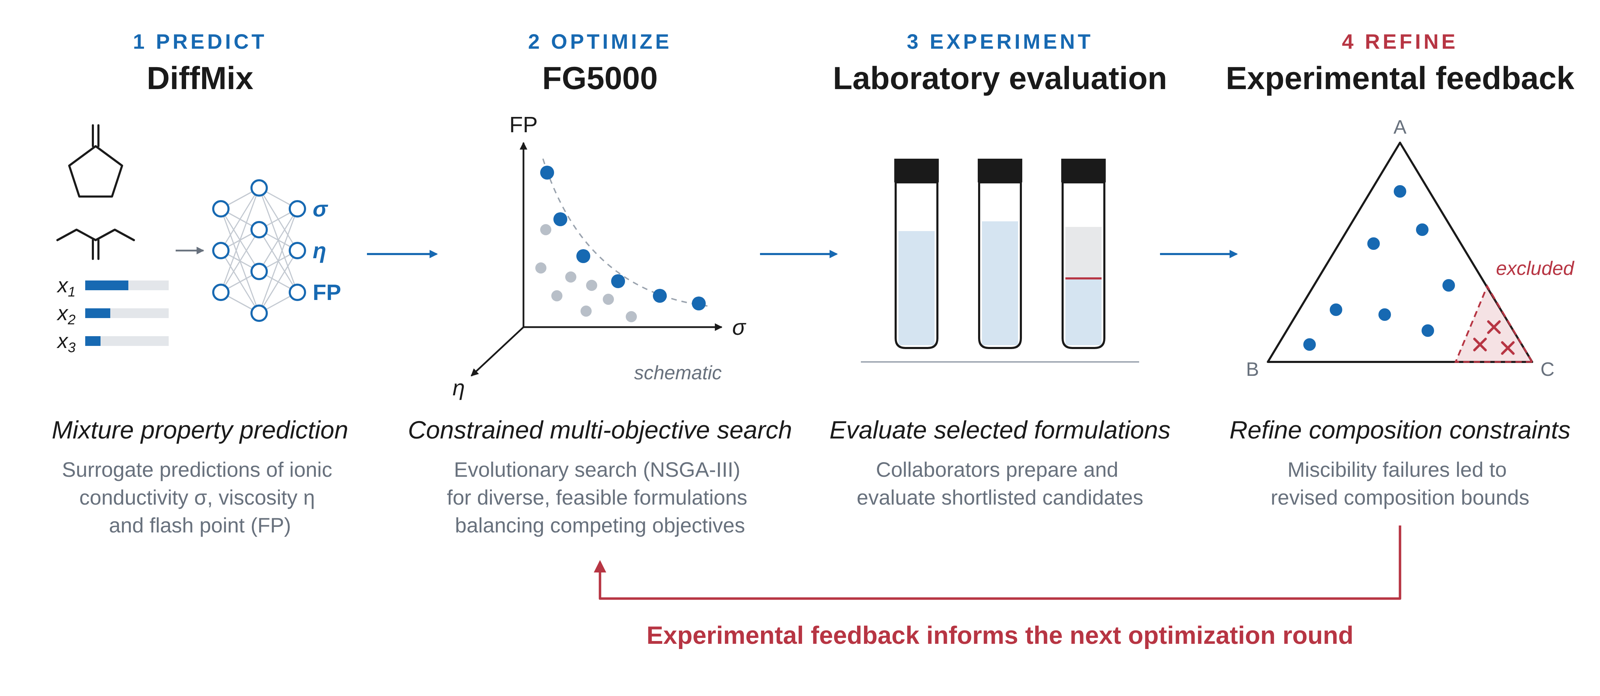
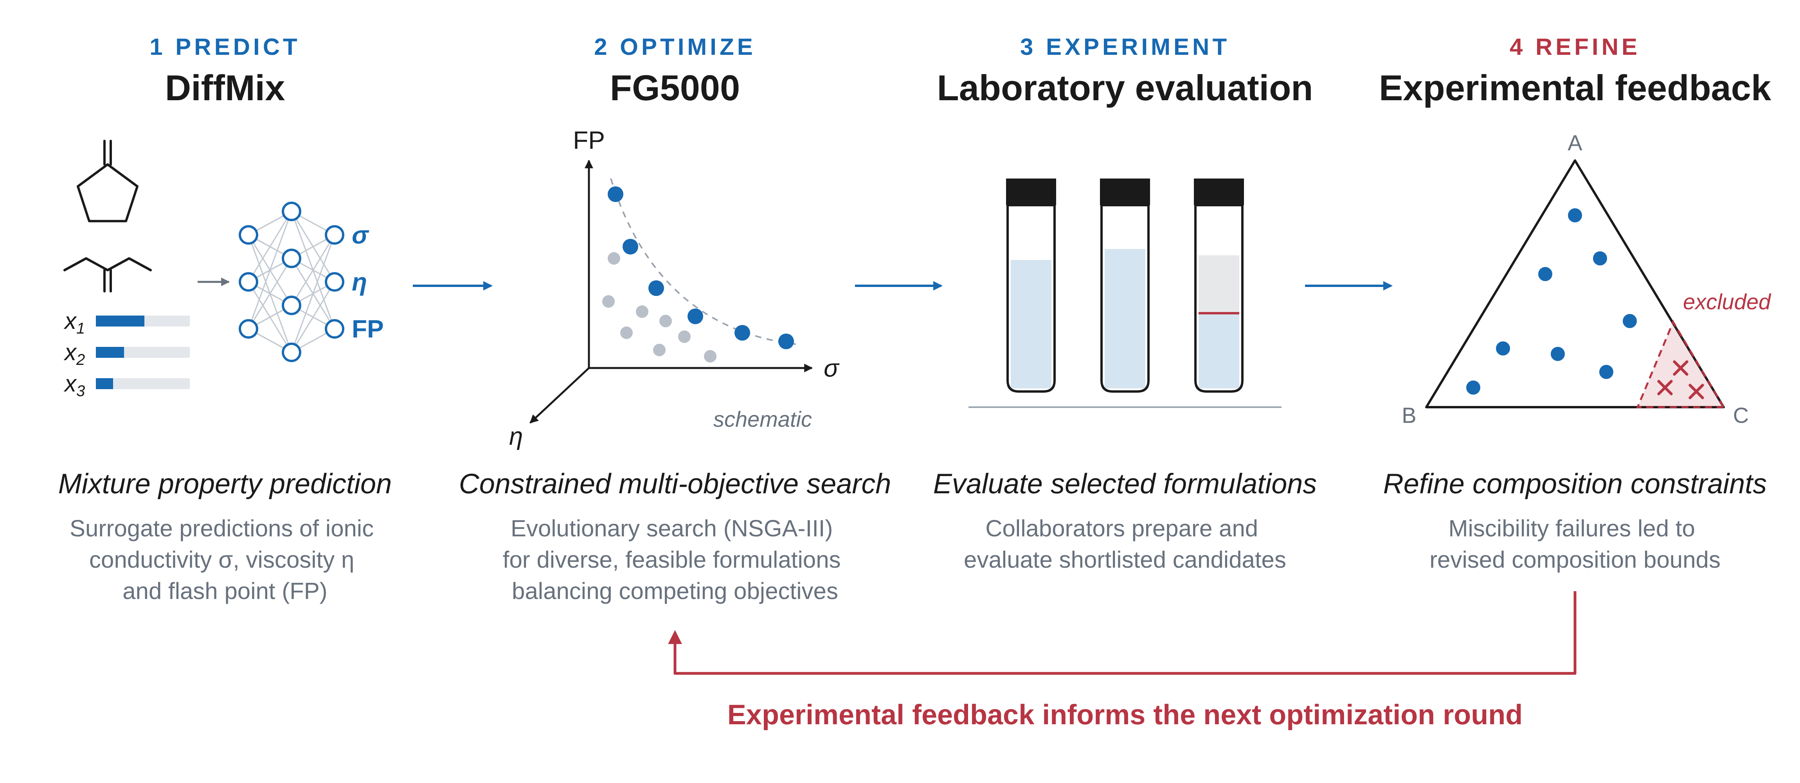
Add closed-loop case study and seminar figures

Changed region(s): [[0.0312, 0.6034, 0.0625, 0.6336]]

diff --git a/_layouts/portfolio_home.html b/_layouts/portfolio_home.html
@@ -117,6 +117,7 @@ layout: portfolio_base
                 <span>model-reliability checks</span>
               </div>
               <div class="work-actions">
+                <a class="inline-link" href="{{ '/projects/closed-loop-electrolytes/' | relative_url }}">View case study →</a>
                 <span class="work-note">Public-facing summary of private industry work · surrogate: DiffMix (Zhu et al., Nat. Commun. 2024)</span>
               </div>
             </div>

diff --git a/_pages/projects/closed-loop-electrolytes.md b/_pages/projects/closed-loop-electrolytes.md
@@ -1,0 +1,59 @@
+---
+layout: portfolio_page
+title: Closed-loop electrolyte design
+display_title: Closed-loop design of battery electrolytes
+kicker: Industry · Battery R&D · Lab-in-the-loop
+permalink: /projects/closed-loop-electrolytes/
+description: Predicting mixture properties, optimizing under constraints, and letting laboratory evidence reshape the next search.
+---
+
+<div class="case-study-shell">
+
+<p class="lead">The goal was not just to predict properties of existing electrolytes. It was to propose new formulations, test them with experimental collaborators, and use what the lab found to improve the next round.</p>
+
+<figure class="project-figure-block">
+  <img src="{{ '/assets/img/projects/closed-loop-overview.png' | relative_url }}" alt="Closed-loop workflow: predict properties with a mixture model, search with constrained multi-objective optimization, test in the lab, and refine the search from lab feedback">
+  <figcaption class="figure-caption">The workflow: a mixture-aware surrogate predicts properties, a constrained multi-objective optimizer proposes formulations, collaborators test a shortlist, and lab evidence refines the next search.</figcaption>
+</figure>
+
+<h2>The problem</h2>
+
+<p>An electrolyte is a mixture of solvents, salts, and additives. Its properties depend on which components are present, how much of each, and how they interact. We wanted three things at once: higher ionic conductivity, lower viscosity, and a higher flash point for safety. These objectives pull against each other, and every candidate also had to use allowed components, stay within composition limits, and be something the lab could actually prepare.</p>
+
+<h2>Predicting mixture properties</h2>
+
+<p>Single-molecule models are not enough here: the same molecules at different fractions behave differently. I trained mixture-aware graph neural network surrogates for viscosity, ionic conductivity, and flash point, based on the published DiffMix architecture (<a href="https://doi.org/10.1038/s41467-024-51653-7">Zhu et al., Nature Communications, 2024</a>). My work was building the training data from the literature, training and validating the models, and connecting them to the optimizer. Validation held out whole component combinations, so the models were tested on mixtures whose component sets they had not seen.</p>
+
+<h2>Searching for trade-offs, not one optimum</h2>
+
+<figure class="project-figure-block">
+  <img src="{{ '/assets/img/projects/closed-loop-fg5000-search.png' | relative_url }}" alt="Constrained multi-objective search: define objectives and constraints, generate candidates, predict with the surrogate, select non-dominated diverse candidates, evolve">
+  <figcaption class="figure-caption">The surrogate scores each candidate in milliseconds, so the optimizer can evaluate many formulations before any experiment. NSGA-III keeps survivors spread across the whole trade-off front. Schematic.</figcaption>
+</figure>
+
+<p>The optimizer generated candidate compositions, scored them with the surrogates, checked feasibility, kept the non-dominated set while preserving diversity, and evolved the next generation. The result was a set of formulations spanning the trade-offs: some safety-leaning, some conductivity-leaning, some balanced. From these we shortlisted diverse candidates for laboratory testing.</p>
+
+<h2>When the lab changed the problem</h2>
+
+<p>Two results from the lab changed the computational workflow itself.</p>
+
+<p><strong>Feasibility.</strong> Some proposed formulations would not mix during preparation. The property predictions were not wrong as such: miscibility was simply not part of the problem the optimizer had been given. We confirmed the failures, located the composition region where they occurred, and revised the optimizer's composition bounds so the next search stayed in the region that can actually be made.</p>
+
+<figure class="project-figure-block">
+  <img src="{{ '/assets/img/projects/closed-loop-feasible-region.png' | relative_url }}" alt="Composition triangle before feedback with failures near one corner, and after feedback with that corner excluded by a revised bound">
+  <figcaption class="figure-caption">Lab feedback changed where the optimizer was allowed to search, not just which candidates it proposed. Schematic, not actual compositions.</figcaption>
+</figure>
+
+<p><strong>Model reliability.</strong> For a group of measured formulations, viscosity was systematically overpredicted, with every error in the same direction. After repeat measurements and calibration checks ruled out the instrument, the poorly predicted formulations turned out to share a concentrated-electrolyte regime that was underrepresented in the training data. We flagged predictions in that regime as unreliable for candidate prioritization and targeted it for new training data.</p>
+
+<h2>What I took from it</h2>
+
+<ul>
+  <li>A surrogate that is accurate on average can still fail systematically in exactly the regions an optimizer finds most interesting.</li>
+  <li>Experimental feedback can change the constraints and the trust placed in a model, not only its training data.</li>
+  <li>A model and an optimizer help only when the objectives and constraints reflect physical reality, and the lab is how you find out whether they do.</li>
+</ul>
+
+<p class="case-study-note">Public-facing summary of private industry work. Figures are schematic; no proprietary data is shown.</p>
+
+</div>
